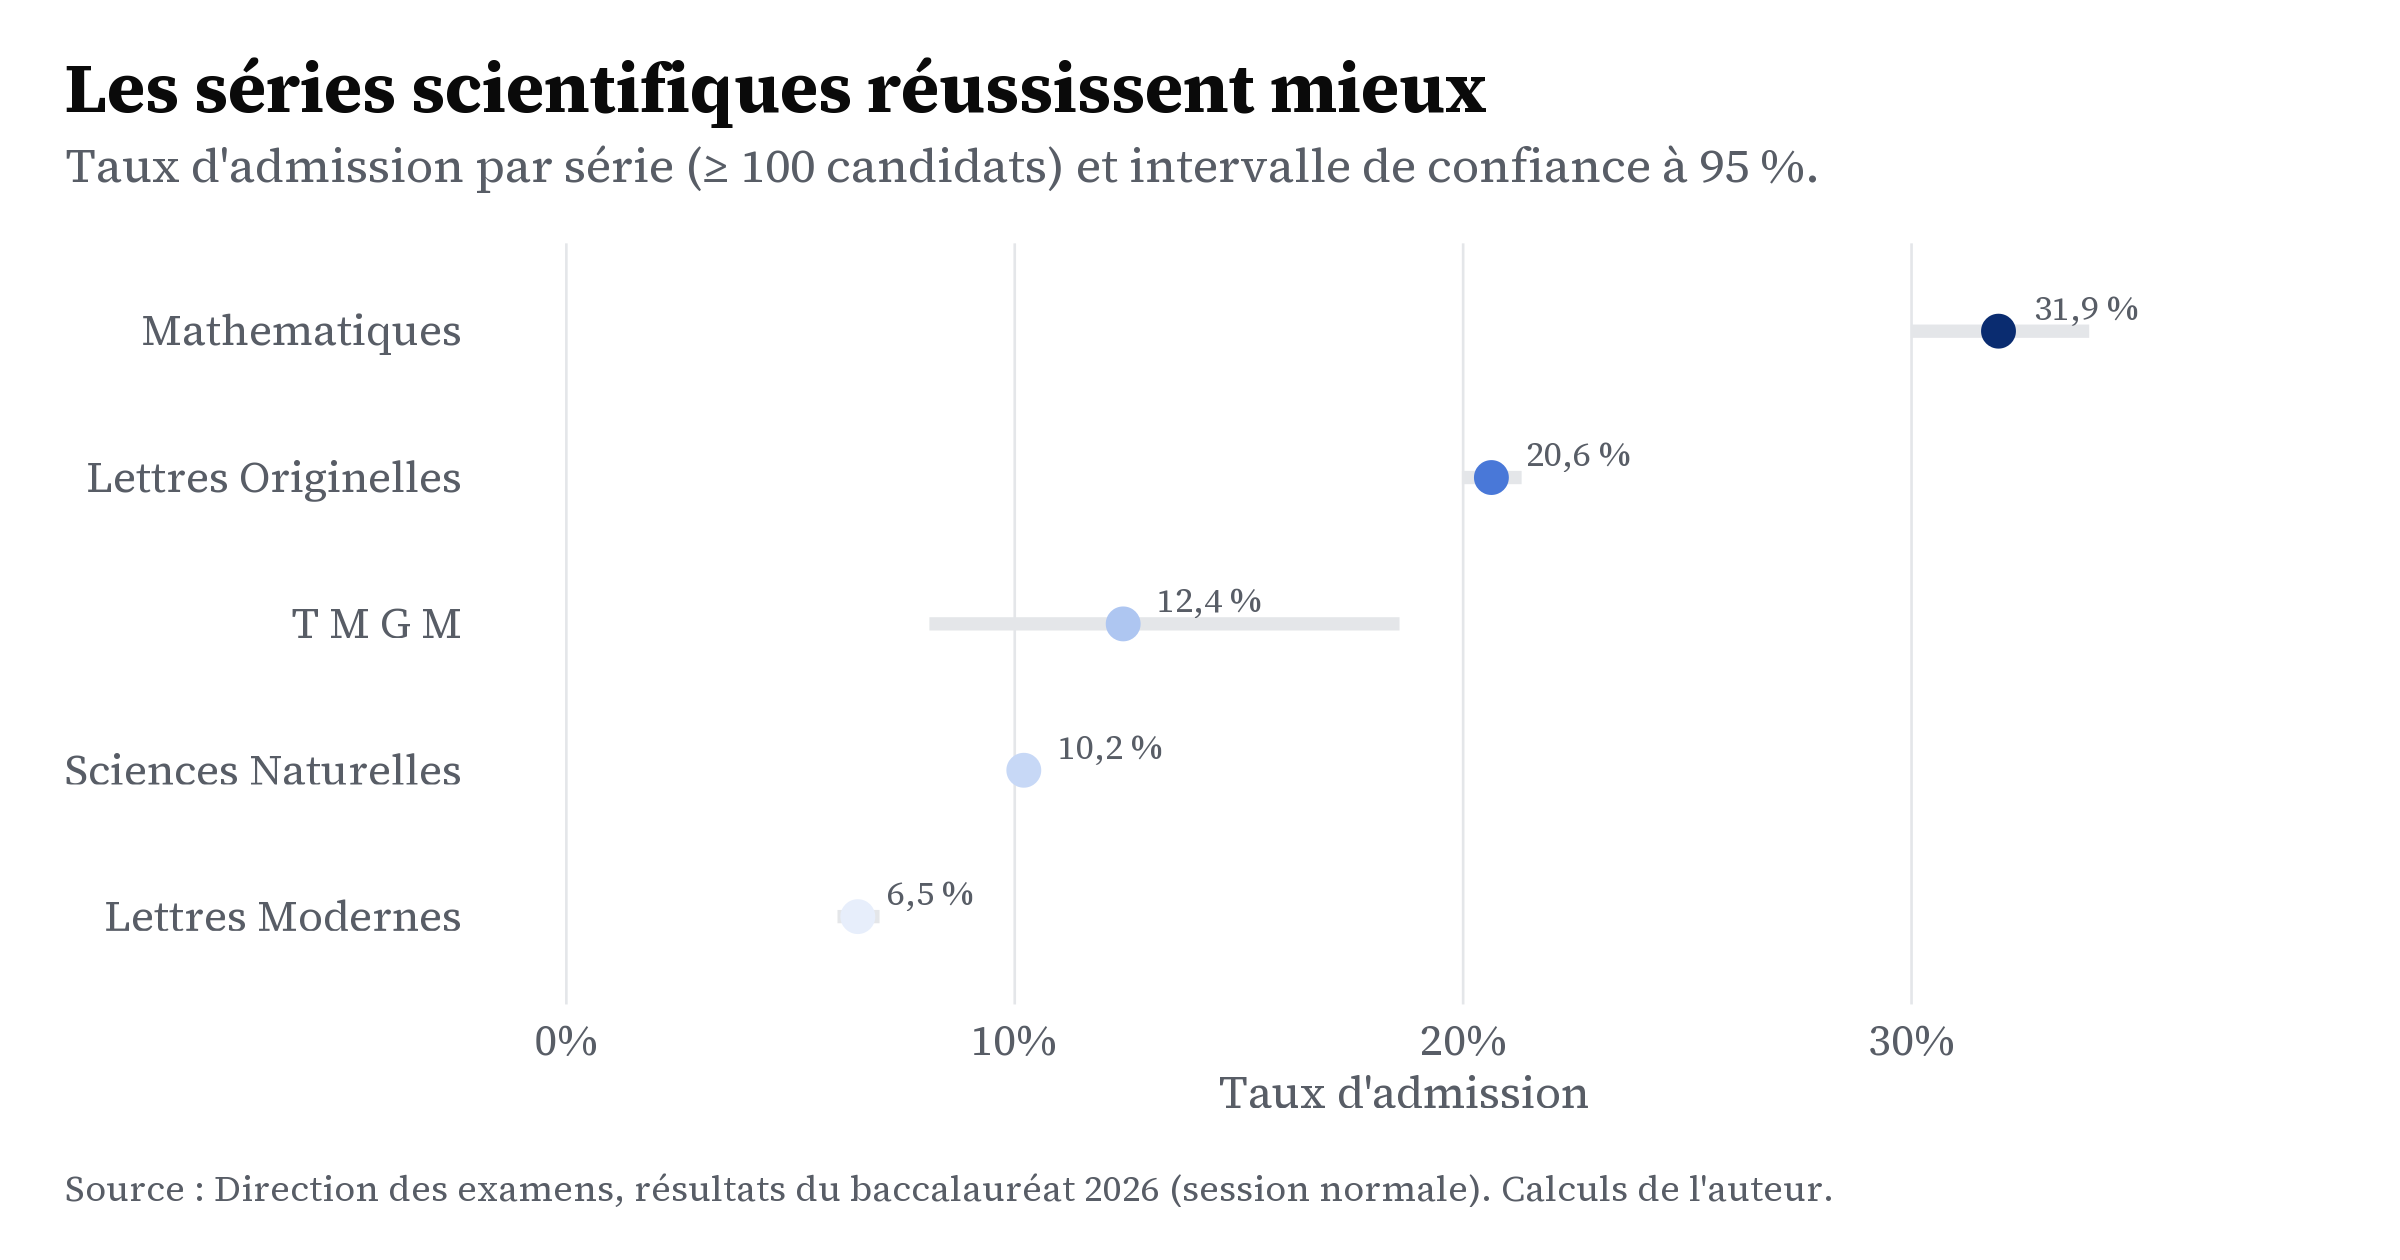
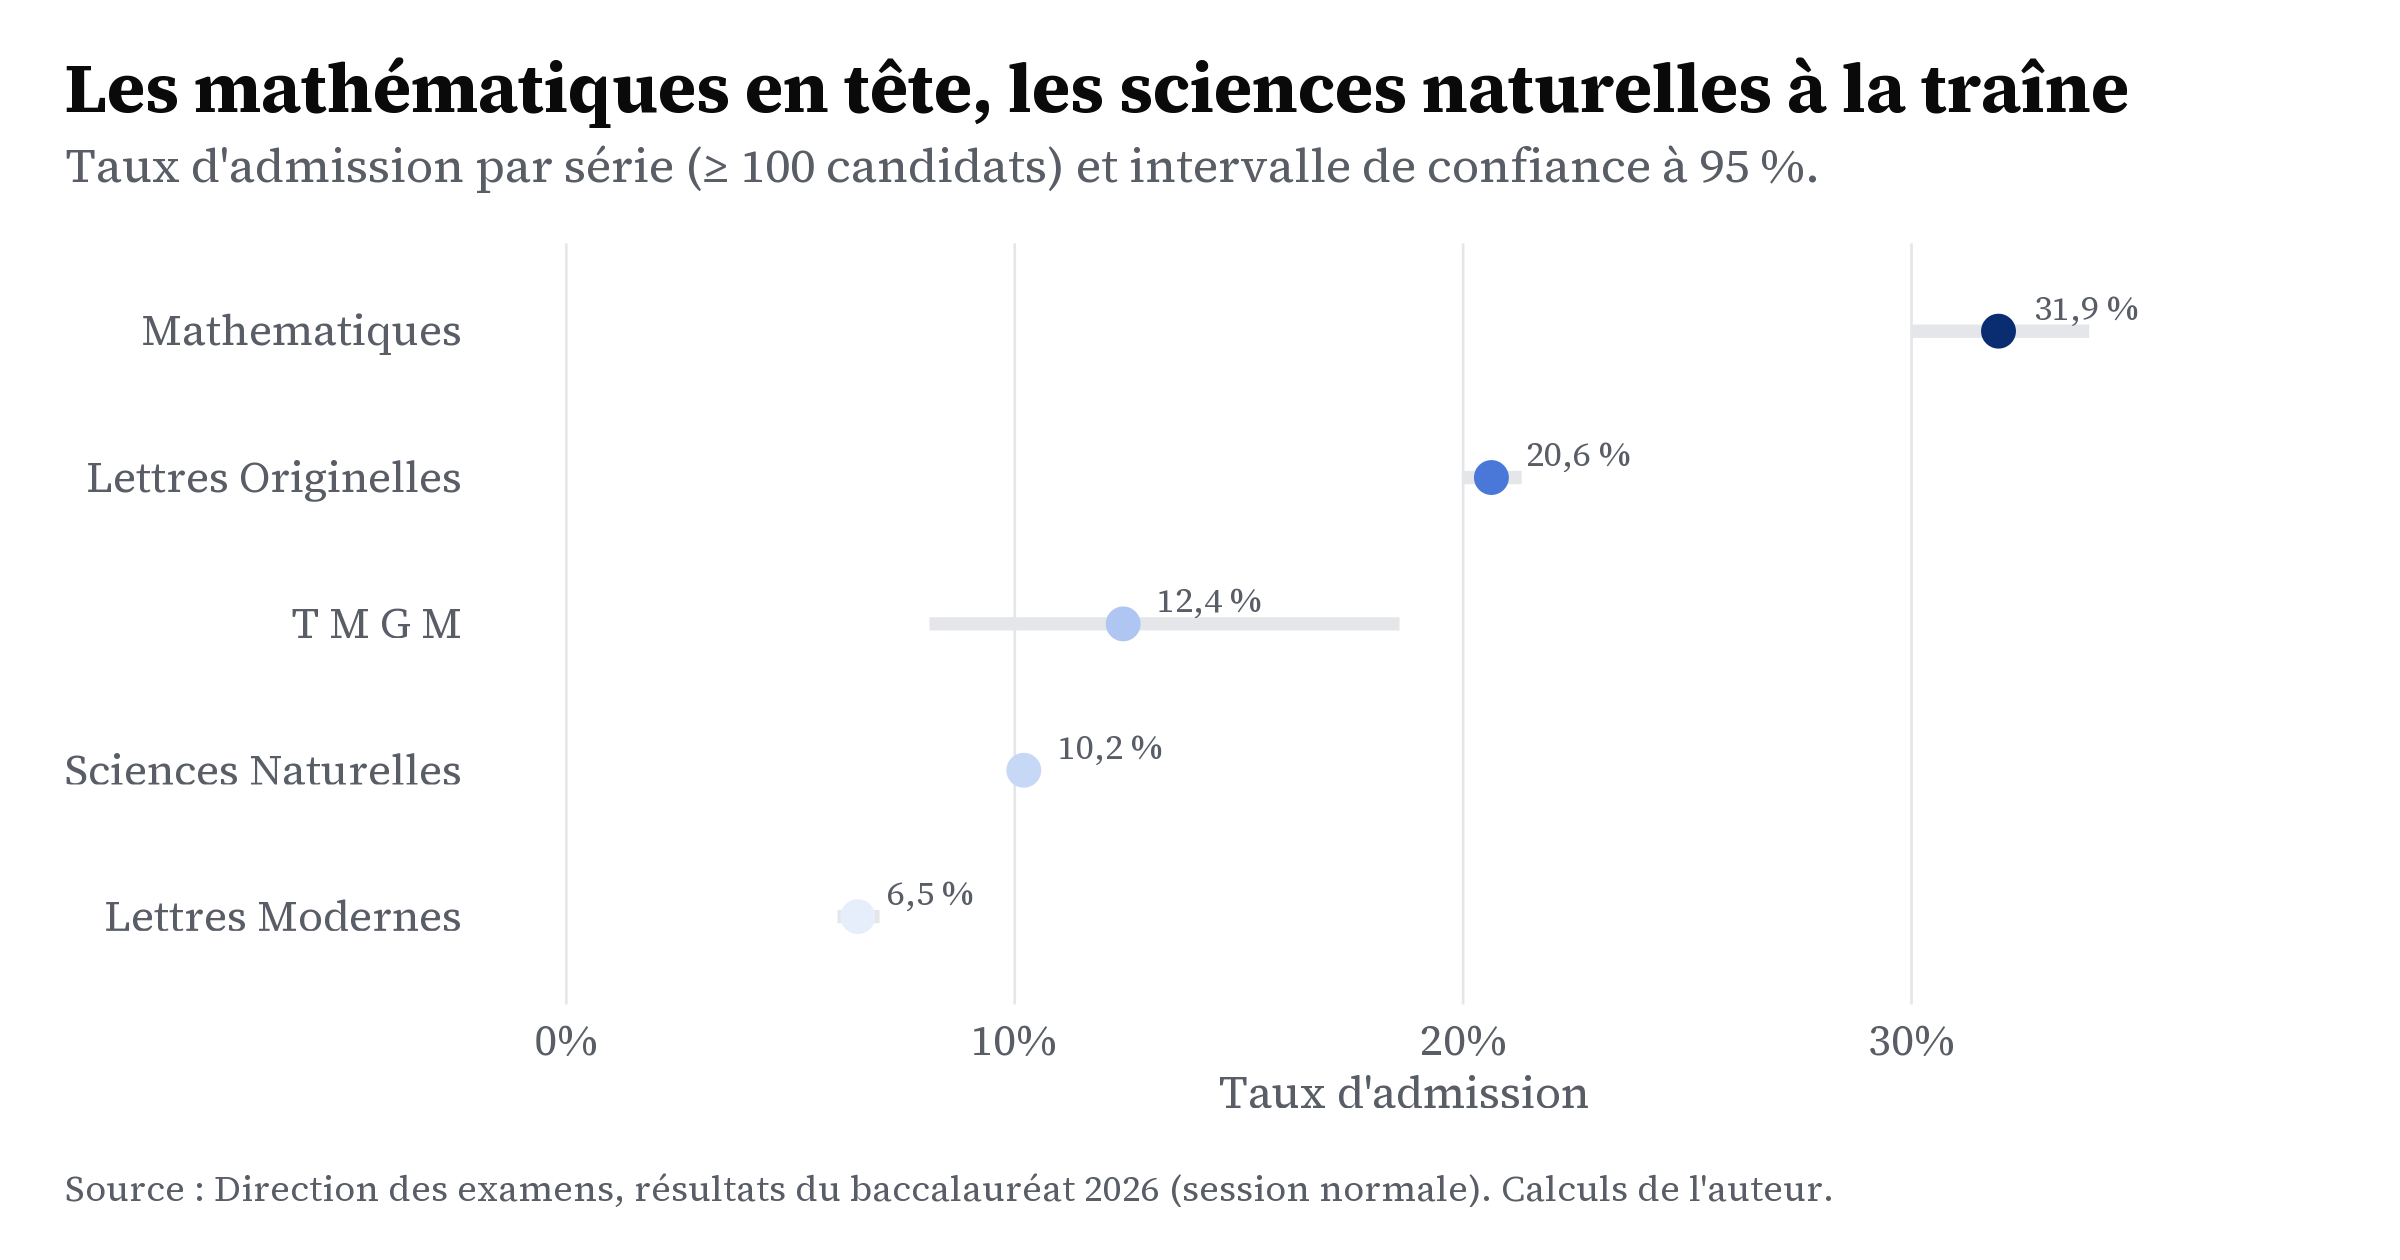
Fix filieres: correct serie admission-rate ranking; wrap code lines

Changed region(s): [[0.0625, 0.031, 0.9062, 0.0929]]

diff --git a/docs/pages/filieres.html b/docs/pages/filieres.html
@@ -199,7 +199,7 @@ ul.task-list li input[type="checkbox"] {
 </div>
 </div>
 </div>
-<p>La différence est nette. Les séries scientifiques, avec les mathématiques en tête puis les sciences naturelles, réussissent bien mieux que les séries littéraires. Les lettres originelles, qui regroupent pourtant un candidat sur cinq, sont en bas du classement des grandes filières. Ce n’est pas un jugement sur les disciplines, mais un constat sur les résultats.</p>
+<p>La hiérarchie réserve une surprise. Les mathématiques dominent nettement le classement, mais la deuxième place revient aux lettres originelles (une série littéraire), devant les sciences naturelles. La plus grande filière du pays, les sciences naturelles, affiche ainsi l’un des taux d’admission les plus faibles, et les lettres modernes ferment la marche. Le lien entre série scientifique et réussite est donc moins direct qu’on ne l’imagine : ce n’est pas un jugement sur les disciplines, mais un constat sur les résultats.</p>
 </section>
 <section id="la-répartition-des-notes-série-par-série" class="level2">
 <h2 class="anchored" data-anchor-id="la-répartition-des-notes-série-par-série">La répartition des notes, série par série</h2>
@@ -213,7 +213,7 @@ ul.task-list li input[type="checkbox"] {
 </div>
 </div>
 </div>
-<p>Le résultat est frappant : dans toutes les séries, le sommet de la courbe se trouve à gauche de la barre des 10. Aucune filière n’a sa médiane du côté de l’admission. Ce qui distingue les séries, c’est la part de candidats qui atteignent les bonnes notes, à droite. Les mathématiques et les sciences naturelles en ont un peu plus ; les lettres, très peu.</p>
+<p>Le résultat est frappant : dans toutes les séries, le sommet de la courbe se trouve à gauche de la barre des 10. Aucune filière n’a sa médiane du côté de l’admission. Ce qui distingue les séries, c’est la part de candidats qui atteignent les bonnes notes, à droite. Les mathématiques et les lettres originelles en ont sensiblement plus ; les sciences naturelles et les lettres modernes, très peu.</p>
 </section>
 <section id="la-série-et-la-réussite-sont-elles-liées" class="level2">
 <h2 class="anchored" data-anchor-id="la-série-et-la-réussite-sont-elles-liées">La série et la réussite sont-elles liées ?</h2>

diff --git a/docs/pages/geographie.html b/docs/pages/geographie.html
@@ -186,7 +186,7 @@ ul.task-list li input[type="checkbox"] {
 </div>
 </div>
 </div>
-<p>Nouakchott rassemble à elle seule plus du tiers des candidats du pays. En ajoutant le Trarza et les wilayas du fleuve (Gorgol, Brakna, les deux Hodh), on obtient la grande majorité des candidats. Les régions du Nord, comme le Tiris Zemmour, l’Adrar ou l’Inchiri, en comptent chacune quelques centaines seulement.</p>
+<p>Nouakchott rassemble à elle seule plus de la moitié des candidats du pays. En y ajoutant les wilayas du fleuve (Trarza, Gorgol, Brakna), on obtient la grande majorité des candidats. Les régions du Nord, comme le Tiris Zemmour, l’Adrar ou l’Inchiri, en comptent chacune quelques centaines seulement.</p>
 </section>
 <section id="rapporté-à-la-population" class="level2">
 <h2 class="anchored" data-anchor-id="rapporté-à-la-population">Rapporté à la population</h2>